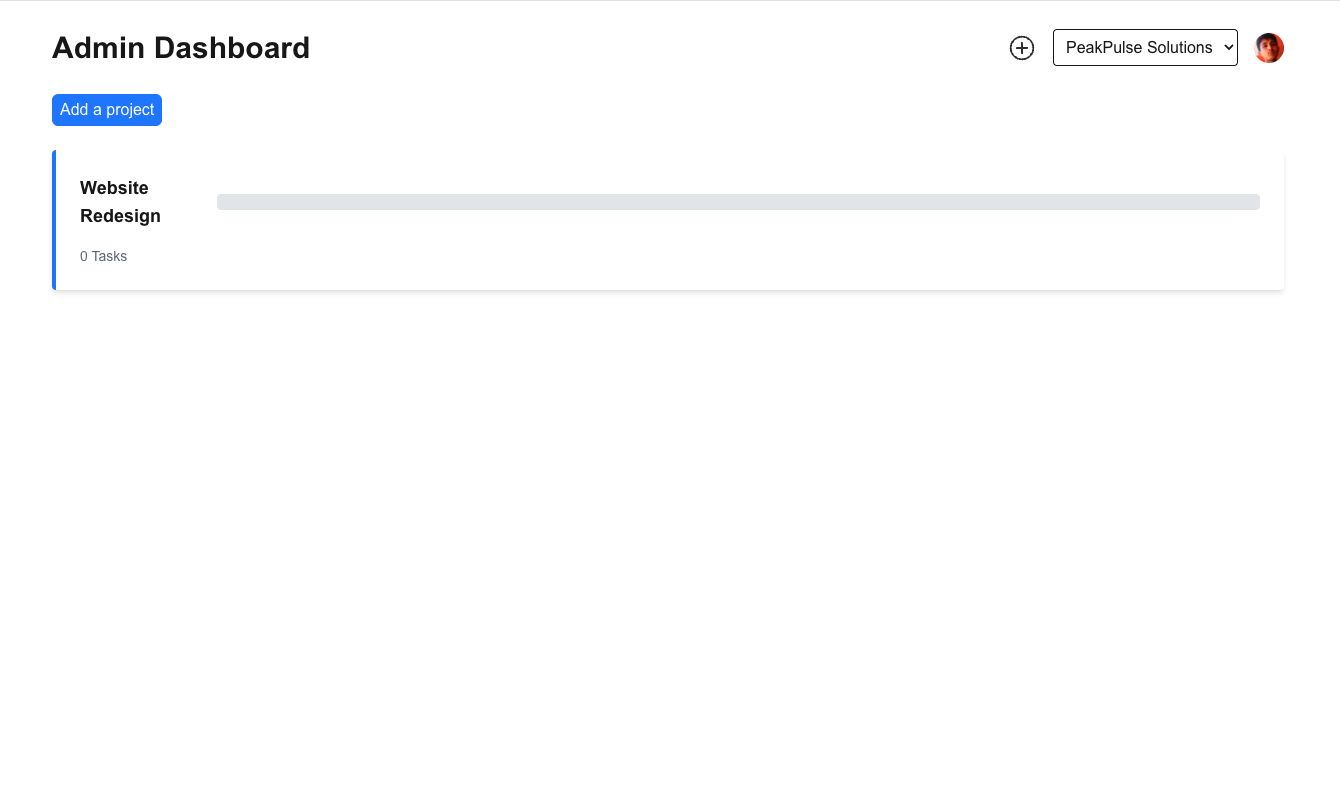
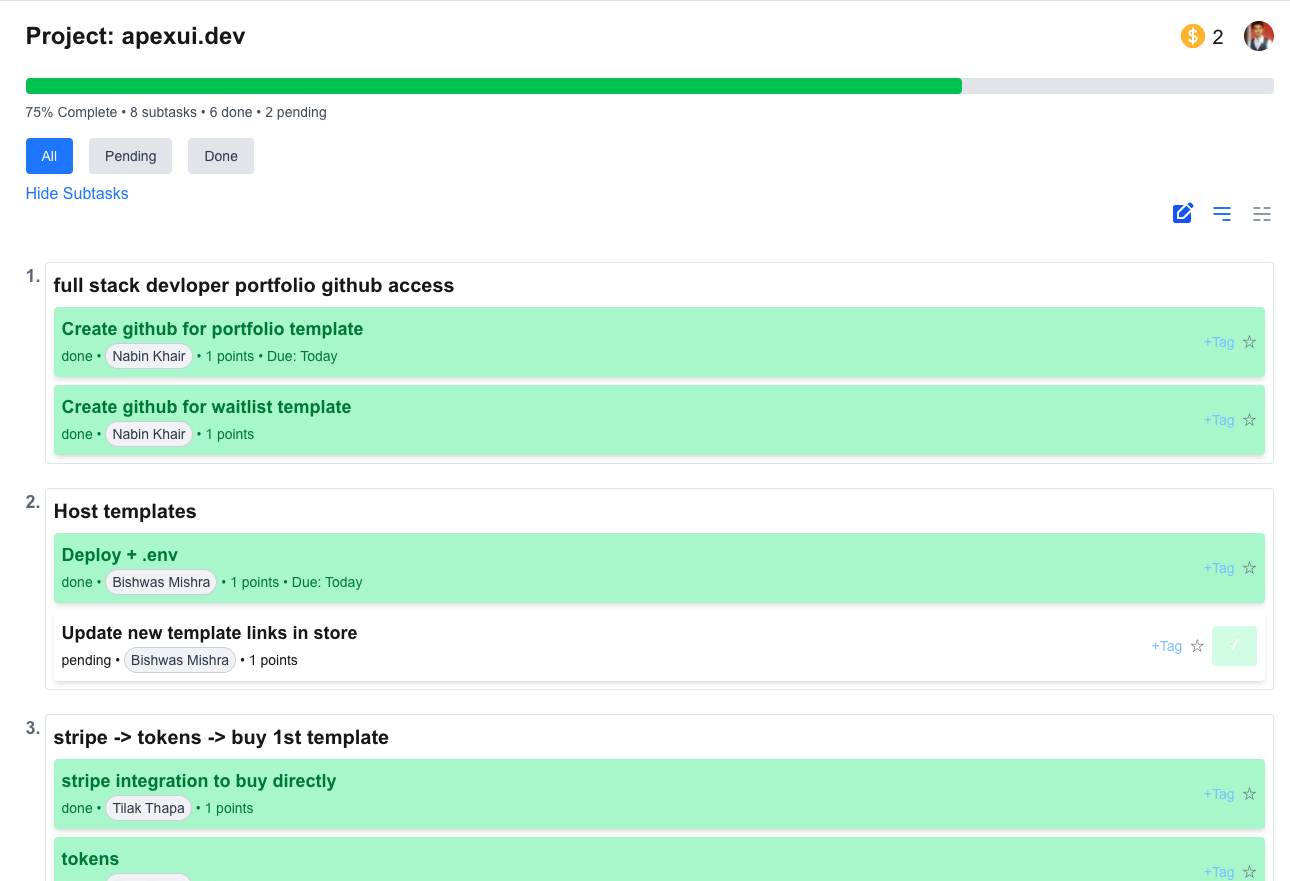
Refactor: Enhance Landing Page Design and User Experience

diff --git a/src/app/page.tsx b/src/app/page.tsx
@@ -86,7 +86,7 @@ export default function Home() {
               🚀 Get Started
             </button>
           </a>
-          <div className="mt-12 max-w-md mx-auto animate-fade-in" style={{ animationDelay: "0.6s" }}>
+          <div className="mt-12 max-w-md lg:max-w-4xl mx-auto animate-fade-in" style={{ animationDelay: "0.6s" }}>
             <div
               className="bg-white/80 backdrop-blur-md p-4 rounded-xl shadow-md"
               onMouseEnter={() => setIsPaused(true)}
@@ -95,7 +95,7 @@ export default function Home() {
               <img
                 src={photos[activePhoto]}
                 alt={`Azent.io Screenshot ${activePhoto + 1}`}
-                className="w-full h-48 object-cover rounded-lg cursor-pointer hover:opacity-95 transition-all duration-300"
+                className="w-full h-48 lg:h-[36rem] object-cover rounded-lg cursor-pointer hover:opacity-95 transition-all duration-300"
                 onClick={handleImageClick}
               />
               <div className="flex justify-center space-x-2 mt-2">
@@ -125,7 +125,6 @@ export default function Home() {
                 alt={`Azent.io Screenshot ${activePhoto + 1} Expanded`}
                 className="w-full h-full object-contain rounded-xl shadow-xl"
               />
-              {/* Left Arrow */}
               <div
                 className="absolute left-0 top-0 h-full w-1/2 flex items-center justify-start opacity-0 hover:opacity-100 transition-opacity duration-300 cursor-pointer"
                 onClick={(e) => {
@@ -135,7 +134,6 @@ export default function Home() {
               >
                 <FaArrowLeft className="text-white text-4xl ml-4 drop-shadow-md" />
               </div>
-              {/* Right Arrow */}
               <div
                 className="absolute right-0 top-0 h-full w-1/2 flex items-center justify-end opacity-0 hover:opacity-100 transition-opacity duration-300 cursor-pointer"
                 onClick={(e) => {
